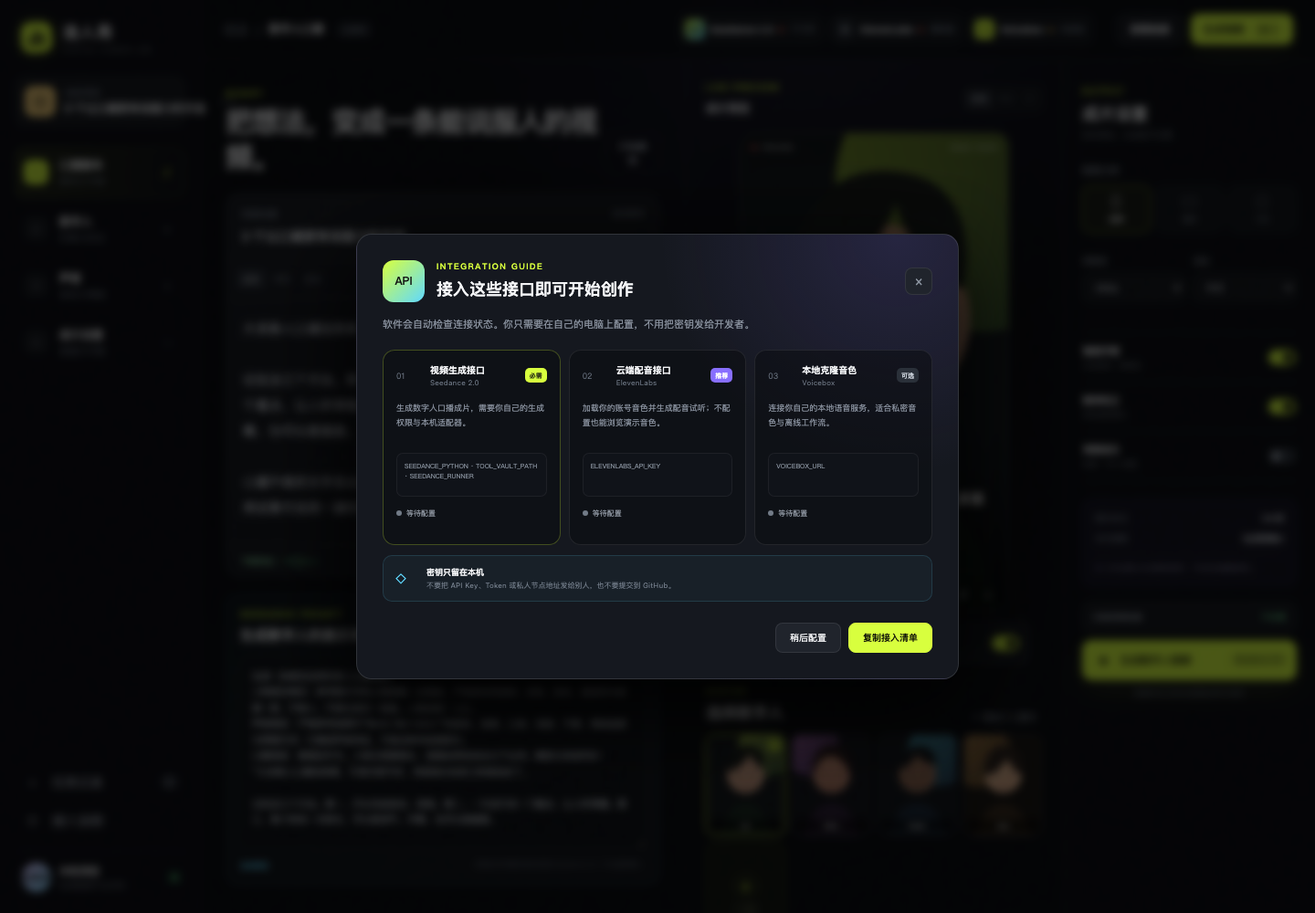
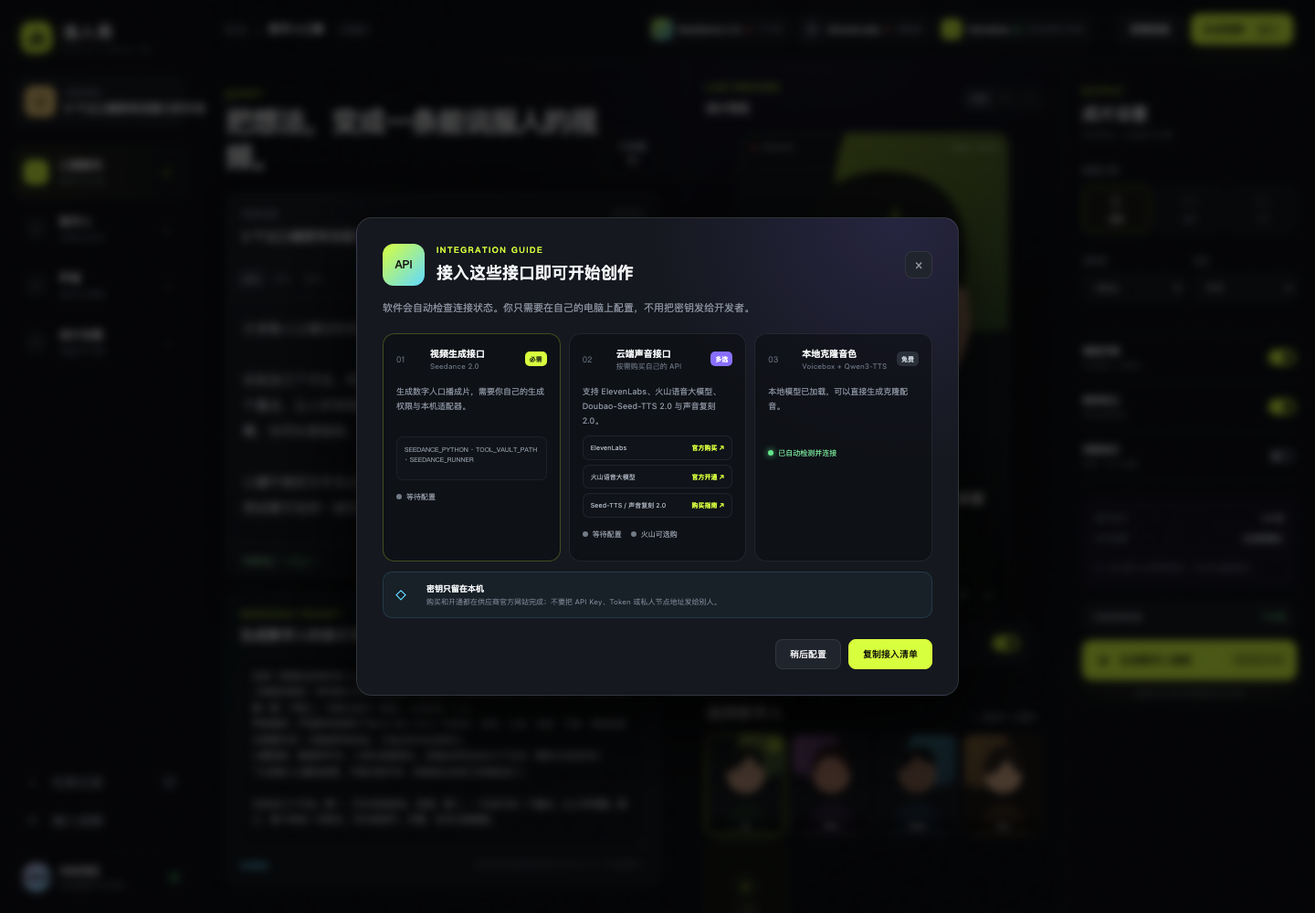
feat: add cloud voice marketplace and local model detection

diff --git a/public/styles.css b/public/styles.css
@@ -72,6 +72,7 @@ main { min-width: 0; }
 .modal-icon.seedance-confirm { color: #111; background: linear-gradient(135deg, #d8ff3e, #61d9ff); }.modal-summary { display: grid; grid-template-columns: repeat(3,1fr); gap: 6px; margin-top: 17px; }.modal-summary span { padding: 9px; border: 1px solid var(--line); border-radius: 8px; color: #717b88; font-size: 8px; }.modal-summary b { display: block; margin-top: 3px; color: #e4e6e9; font-size: 9px; white-space: nowrap; overflow: hidden; text-overflow: ellipsis; }
 .avatar-modal > section,.voice-modal > section { width: 460px; }.avatar-modal-head { display: flex; align-items: center; gap: 12px; }.avatar-modal-head h2 { margin: 0; }.add-avatar-icon { color: #111; background: var(--lime); font-size: 20px; }.avatar-name-field { display: block; margin-top: 16px; color: #8d95a0; font-size: 9px; }.avatar-name-field input { display: block; width: 100%; margin-top: 6px; padding: 10px 11px; color: #e6e8eb; background: #11141a; border: 1px solid var(--line); border-radius: 9px; outline: 0; font-size: 11px; }.avatar-name-field input:focus { border-color: rgba(216,255,62,.45); }.avatar-dropzone { position: relative; width: 100%; min-height: 165px; display: grid; place-items: center; align-content: center; gap: 5px; margin-top: 13px; overflow: hidden; border: 1px dashed rgba(255,255,255,.2); border-radius: 13px; background: #11141a; }.avatar-dropzone.dragging { border-color: var(--lime); background: rgba(216,255,62,.045); }.avatar-dropzone .drop-icon { display: grid; place-items: center; width: 35px; height: 35px; margin-bottom: 5px; border-radius: 10px; color: var(--lime); background: rgba(216,255,62,.09); font-size: 17px; }.avatar-dropzone b { font-size: 11px; }.avatar-dropzone small { color: #6d7682; font-size: 8px; }.avatar-dropzone img { position: absolute; inset: 0; width: 100%; height: 100%; object-fit: cover; }.avatar-dropzone.has-image::after { content: "点击更换图片"; position: absolute; inset: auto 8px 8px; padding: 5px; color: #fff; background: rgba(0,0,0,.58); border-radius: 6px; font-size: 8px; backdrop-filter: blur(5px); }.or-line { display: flex; align-items: center; gap: 9px; margin: 13px 0 -2px; color: #59616d; font-size: 8px; }.or-line::before,.or-line::after { content: ""; flex: 1; height: 1px; background: var(--line); }.avatar-privacy { display: grid; grid-template-columns: 24px 1fr; gap: 8px; align-items: center; margin-top: 13px; padding: 9px 10px; border: 1px solid rgba(96,217,255,.13); border-radius: 9px; background: rgba(96,217,255,.035); }.avatar-privacy > i { color: var(--cyan); font-style: normal; }.avatar-privacy b,.avatar-privacy small { display: block; }.avatar-privacy b { font-size: 9px; }.avatar-privacy small { margin-top: 1px; color: #6c7582; font-size: 8px; }
 .integration-modal > section { width: 660px; max-height: 90vh; overflow: auto; padding: 28px; background: radial-gradient(circle at 90% 0%, rgba(136,111,255,.15), transparent 34%), #15181f; }.integration-head { display: grid; grid-template-columns: 46px 1fr 30px; align-items: center; gap: 13px; }.integration-head h2 { margin: 2px 0 0; }.integration-icon { width: 46px; height: 46px; color: #111; background: linear-gradient(135deg, var(--lime), var(--cyan)); }.integration-close { width: 30px; height: 30px; border: 1px solid var(--line); border-radius: 8px; background: #20242c; color: #8c95a1; }.integration-intro { margin-top: 14px !important; }.integration-grid { display: grid; grid-template-columns: repeat(3,1fr); gap: 9px; margin-top: 18px; }.integration-card { min-height: 214px; padding: 14px; border: 1px solid var(--line); border-radius: 13px; background: rgba(9,11,15,.55); }.integration-card.required { border-color: rgba(216,255,62,.26); }.integration-card header { display: grid; grid-template-columns: 29px 1fr auto; gap: 8px; align-items: center; }.integration-number { color: #666f7c; font: 9px "DM Mono"; }.integration-card header b,.integration-card header small { display: block; }.integration-card header b { font-size: 10px; }.integration-card header small { color: #69727f; font-size: 8px; }.integration-card header em { padding: 3px 5px; border-radius: 5px; color: #111; background: var(--lime); font-size: 7px; font-style: normal; font-weight: 800; }.integration-card.recommended header em { color: #fff; background: var(--purple); }.integration-card.optional header em { color: #c7ced7; background: #2a3039; }.integration-card p { min-height: 57px; margin-top: 14px; font-size: 9px; }.integration-card code { display: block; min-height: 48px; padding: 8px; overflow-wrap: anywhere; border: 1px solid rgba(255,255,255,.06); border-radius: 7px; color: #87909c; background: #101319; font: 7px/1.65 "DM Mono"; }.integration-status { display: inline-flex; align-items: center; gap: 5px; margin-top: 12px; color: #929aa5; font-size: 8px; }.integration-status::before { content: ""; width: 6px; height: 6px; border-radius: 50%; background: #727b87; }.integration-status.connected { color: #74dc94; }.integration-status.connected::before { background: #64e58d; box-shadow: 0 0 7px #64e58d; }.integration-status.error { color: #ff8a7a; }.integration-status.error::before { background: var(--danger); }.integration-privacy { display: grid; grid-template-columns: 26px 1fr; gap: 9px; align-items: center; margin-top: 11px; padding: 11px 12px; border: 1px solid rgba(96,217,255,.15); border-radius: 10px; background: rgba(96,217,255,.04); }.integration-privacy > i { color: var(--cyan); font-style: normal; }.integration-privacy b,.integration-privacy small { display: block; }.integration-privacy b { font-size: 9px; }.integration-privacy small { margin-top: 2px; color: #747e8b; font-size: 8px; }
+.provider-buy-list { display: grid; gap: 5px; }.provider-buy-list a,.model-download { display: flex; align-items: center; justify-content: space-between; padding: 7px 8px; border: 1px solid rgba(255,255,255,.07); border-radius: 7px; color: #aeb6c2; background: #101319; font-size: 7px; text-decoration: none; }.provider-buy-list a:hover,.model-download:hover { border-color: rgba(216,255,62,.35); color: #fff; }.provider-buy-list a b { color: var(--lime); font-size: 7px; }.integration-status-row { display: flex; gap: 10px; }.model-download { margin-top: 5px; color: #111; background: var(--lime); border-color: var(--lime); font-weight: 800; }.cloud-provider-card p { min-height: auto; margin-bottom: 8px; }.cloud-provider-card { min-height: 250px; }
 .toast-wrap { position: fixed; right: 18px; bottom: 18px; z-index: 80; display: grid; gap: 8px; }.toast { width: 300px; padding: 12px 14px; border: 1px solid var(--line); border-radius: 11px; background: rgba(24,28,35,.96); box-shadow: 0 18px 45px rgba(0,0,0,.28); animation: toastIn .25s ease; }.toast b,.toast span { display: block; }.toast b { font-size: 10px; }.toast span { color: #858e9b; font-size: 9px; margin-top: 2px; }.toast.error { border-color: rgba(255,114,94,.3); }.toast.success { border-color: rgba(99,224,134,.25); }
 
 @keyframes shimmer { to { background-position: -200% 0; } }

diff --git a/docs/site.css b/docs/site.css
@@ -1,0 +1,1 @@
+:root{--bg:#090b0f;--panel:#12151b;--line:rgba(255,255,255,.1);--text:#f3f5f7;--muted:#8a929e;--lime:#d8ff3e;--cyan:#60d9ff;--purple:#8b72ff}*{box-sizing:border-box}html{scroll-behavior:smooth}body{margin:0;overflow-x:hidden;color:var(--text);background:var(--bg);font:15px/1.7 -apple-system,BlinkMacSystemFont,"Segoe UI","PingFang SC",sans-serif}.glow{position:fixed;inset:0;pointer-events:none;background:radial-gradient(circle at 70% 5%,rgba(113,87,255,.19),transparent 28%),radial-gradient(circle at 10% 35%,rgba(216,255,62,.07),transparent 24%)}a{color:inherit}.nav{position:sticky;top:0;z-index:10;display:flex;align-items:center;width:100%;max-width:1180px;height:72px;margin:auto;padding:0 24px;border-bottom:1px solid var(--line);background:rgba(9,11,15,.8);backdrop-filter:blur(18px)}.logo{display:flex;align-items:center;gap:9px;text-decoration:none}.logo i{display:flex;align-items:flex-end;justify-content:center;gap:2px;width:29px;height:29px;padding-bottom:7px;border-radius:9px;background:var(--lime);transform:rotate(-3deg)}.logo i span{width:3px;border-radius:2px;background:#111}.logo i span:nth-child(1){height:8px}.logo i span:nth-child(2){height:14px}.logo i span:nth-child(3){height:10px}.logo b{font-size:16px;letter-spacing:.08em}.logo small{color:#68717d;font:8px monospace;letter-spacing:.12em}.nav nav{display:flex;gap:28px;margin-left:auto}.nav nav a,.nav-cta{font-size:12px;text-decoration:none}.nav nav a{color:#939ba7}.nav-cta{margin-left:32px;padding:8px 13px;border:1px solid var(--line);border-radius:8px}.hero,.section,.local,.privacy,footer{position:relative;max-width:1180px;margin:auto}.hero{padding:110px 24px 80px;text-align:center}.eyebrow,.section-title>span,.local-copy>span,.privacy span{color:var(--lime);font:11px monospace;letter-spacing:.16em}.hero h1{margin:19px 0 22px;font-size:68px;line-height:1.08;letter-spacing:-.05em}.hero h1 em{color:transparent;background:linear-gradient(90deg,var(--lime),var(--cyan));background-clip:text;font-style:normal}.hero>p{max-width:670px;margin:auto;color:var(--muted);font-size:17px}.hero-actions{display:flex;justify-content:center;gap:10px;margin-top:30px}.hero-actions a{padding:12px 20px;border-radius:10px;font-size:13px;font-weight:700;text-decoration:none}.primary{color:#101208;background:var(--lime)}.secondary{border:1px solid var(--line);background:#15181f}.hero-shot{margin-top:62px;padding:10px;border:1px solid var(--line);border-radius:20px;background:#11141a;box-shadow:0 50px 120px rgba(0,0,0,.55)}.hero-shot img{display:block;width:100%;border-radius:12px}.section{padding:90px 24px}.section-title{max-width:670px}.section-title h2,.local h2,.privacy h2{margin:10px 0 13px;font-size:42px;line-height:1.14;letter-spacing:-.035em}.section-title p,.local-copy>p,.privacy>p{color:var(--muted)}.cards{display:grid;grid-template-columns:repeat(3,1fr);gap:14px;margin-top:38px}.cards article{min-height:280px;padding:25px;border:1px solid var(--line);border-radius:16px;background:rgba(18,21,27,.86)}.cards article.featured{border-color:rgba(216,255,62,.38);background:linear-gradient(145deg,rgba(216,255,62,.07),rgba(18,21,27,.9))}.card-top{display:flex;justify-content:space-between;align-items:center}.card-top>b{display:grid;place-items:center;width:40px;height:40px;border-radius:11px;color:#111;background:linear-gradient(135deg,var(--lime),var(--cyan))}.card-top span{padding:3px 7px;border-radius:6px;color:#8e96a2;background:#242932;font-size:9px}.cards h3{margin:28px 0 7px;font-size:20px}.cards p{min-height:75px;color:var(--muted);font-size:13px}.cards a{display:inline-block;margin-top:16px;color:var(--lime);font-size:12px;font-weight:700;text-decoration:none}.local{display:grid;grid-template-columns:1.1fr .9fr;gap:75px;align-items:center;padding:100px 24px}.local-copy ul{display:grid;gap:8px;padding:0;list-style:none;color:#b9c0c9}.local-copy li:before{content:"✓";margin-right:10px;color:var(--lime)}.local .hero-actions{justify-content:flex-start}.detector{padding:25px;border:1px solid rgba(96,217,255,.22);border-radius:18px;background:linear-gradient(145deg,rgba(96,217,255,.07),#11141a)}.detector-head{display:flex;align-items:center;gap:8px;padding-bottom:17px;border-bottom:1px solid var(--line);font:10px monospace}.detector-head>i{width:7px;height:7px;border-radius:50%;background:#65e58e;box-shadow:0 0 8px #65e58e}.detector-head b{margin-left:auto;color:#68dc90}.check{display:flex;gap:12px;align-items:center;padding:17px 0;border-bottom:1px solid var(--line)}.check>i{display:grid;place-items:center;width:28px;height:28px;border-radius:8px;color:#101208;background:var(--lime);font-style:normal}.check b,.check small{display:block}.check small{color:#6f7884;font-size:10px}.ready{margin-top:18px;padding:12px;border-radius:9px;color:#70df92;background:rgba(86,214,123,.08);font-size:11px;text-align:center}.privacy{display:grid;grid-template-columns:1fr 1fr;gap:80px;align-items:center;margin-top:60px;margin-bottom:100px;padding:55px;border:1px solid rgba(139,114,255,.22);border-radius:20px;background:linear-gradient(120deg,rgba(139,114,255,.09),rgba(18,21,27,.7))}.privacy h2{font-size:35px}.privacy>p{font-size:15px}footer{display:flex;align-items:center;gap:30px;padding:28px 24px;border-top:1px solid var(--line);color:#747d89;font-size:11px}footer p{margin-left:auto}footer a{text-decoration:none}@media(max-width:760px){.nav nav,.logo small{display:none}.logo,.nav-cta{flex:none}.nav-cta{margin-left:auto;white-space:nowrap}.hero{padding:75px 20px 60px}.eyebrow{overflow-wrap:anywhere}.hero h1{font-size:38px;word-break:break-all}.hero>p{font-size:14px}.hero-actions{flex-direction:column}.cards,.local,.privacy{grid-template-columns:minmax(0,1fr)}.cards article,.section,.local,.privacy{min-width:0}.section,.local{padding:65px 20px}.local{gap:35px}.privacy{gap:15px;margin:30px 16px 70px;padding:30px}.section-title h2,.local h2{font-size:34px}footer p{display:none}}

diff --git a/docs/index.html b/docs/index.html
@@ -1,0 +1,50 @@
+<!doctype html>
+<html lang="zh-CN">
+  <head>
+    <meta charset="UTF-8" />
+    <meta name="viewport" content="width=device-width, initial-scale=1" />
+    <meta name="description" content="造人局数字人口播工作台：脚本、数字人、云端声音、本地克隆与 Seedance 2.0 成片工作流。" />
+    <title>造人局 · 数字人口播工作台</title>
+    <link rel="stylesheet" href="site.css" />
+    <link rel="stylesheet" href="mobile.css" />
+  </head>
+  <body>
+    <div class="glow"></div>
+    <header class="nav">
+      <a class="logo" href="#top"><i><span></span><span></span><span></span></i><b>造人局</b><small>DIGITAL HUMAN LAB</small></a>
+      <nav><a href="#cloud">云端声音</a><a href="#local">本地克隆</a><a href="#privacy">隐私</a></nav>
+      <a class="nav-cta" href="https://github.com/francoeur003/digital-human-studio/releases/latest" target="_blank" rel="noreferrer">下载软件 ↗</a>
+    </header>
+
+    <main id="top">
+      <section class="hero">
+        <div class="eyebrow">PRIVACY-FIRST DIGITAL HUMAN STUDIO</div>
+        <h1>把想法，变成一条<br /><em>能说服人的视频。</em></h1>
+        <p>从口播脚本、人物与声音，到 Seedance 2.0 成片。API 由用户在供应商官网自行购买，密钥只保存在自己的电脑。</p>
+        <div class="hero-actions">
+          <a class="primary" href="https://github.com/francoeur003/digital-human-studio/releases/latest/download/Digital-Human-Studio-0.4.0-macOS-arm64.zip">下载 macOS 版</a>
+          <a class="secondary" href="https://github.com/francoeur003/digital-human-studio" target="_blank" rel="noreferrer">查看开源项目 ↗</a>
+        </div>
+        <div class="hero-shot"><img src="screenshots/hero.png" alt="数字人口播工作台界面" /></div>
+      </section>
+
+      <section class="section" id="cloud">
+        <div class="section-title"><span>01 · CLOUD VOICE</span><h2>云端声音，去官方购买</h2><p>工作台不代售额度，也不会接触你的密钥。选择适合自己的供应商，开通后只在本机配置。</p></div>
+        <div class="cards cloud-cards">
+          <article><div class="card-top"><b>11</b><span>国际多语种</span></div><h3>ElevenLabs</h3><p>适合多语种口播、Voice Library 和云端配音试听。</p><a href="https://elevenlabs.io/pricing" target="_blank" rel="noreferrer">官方价格与购买 ↗</a></article>
+          <article class="featured"><div class="card-top"><b>火</b><span>中文优先</span></div><h3>火山语音大模型</h3><p>支持豆包语音合成大模型，以及更自然、更有表现力的中文配音。</p><a href="https://www.volcengine.com/products/Audio-editing-and-sound-processing" target="_blank" rel="noreferrer">火山引擎官方开通 ↗</a></article>
+          <article><div class="card-top"><b>S2</b><span>2.0 接口</span></div><h3>Seed‑TTS / 声音复刻 2.0</h3><p>支持 Doubao‑Seed‑TTS 2.0 与 Doubao‑Seed‑ICL 2.0 音色能力。</p><a href="https://www.volcengine.com/docs/6561/1167802?lang=zh" target="_blank" rel="noreferrer">官方开通与购买指南 ↗</a></article>
+        </div>
+      </section>
+
+      <section class="local" id="local">
+        <div class="local-copy"><span>02 · LOCAL VOICE</span><h2>本地克隆，自动检测。</h2><p>推荐 Voicebox + Qwen3‑TTS 1.7B。软件会检测 Voicebox 是否安装、模型是否下载、服务是否运行；已就绪就直接连接，未检测到才显示下载入口。</p><ul><li>声音和模型留在本机</li><li>无需订阅，无云端额度</li><li>支持中文、英文等多语种克隆</li></ul><div class="hero-actions"><a class="primary" href="https://github.com/jamiepine/voicebox/releases/download/v0.5.0/Voicebox_0.5.0_aarch64.dmg">Apple 芯片直接下载</a><a class="secondary" href="https://voicebox.sh/download" target="_blank" rel="noreferrer">其他系统官方下载 ↗</a></div></div>
+        <div class="detector"><div class="detector-head"><i></i><span>LOCAL MODEL DETECTOR</span><b>自动运行</b></div><div class="check"><i>✓</i><span><b>Voicebox 应用</b><small>检查系统安装目录</small></span></div><div class="check"><i>✓</i><span><b>Qwen3‑TTS 模型</b><small>检查本地 Hugging Face 缓存</small></span></div><div class="check"><i>✓</i><span><b>本机语音服务</b><small>自动发现运行端口，不公开地址</small></span></div><div class="ready">检测成功后显示：本地模型已就绪</div></div>
+      </section>
+
+      <section class="privacy" id="privacy"><div><span>03 · SECURITY</span><h2>你的密钥，不属于这个项目。</h2></div><p>GitHub、安装包、网页和日志均不保存 API Key、Token、私人节点地址或个人音色。公开接口只返回配置状态布尔值。</p></section>
+    </main>
+
+    <footer><div class="logo"><b>造人局</b><small>DIGITAL HUMAN LAB</small></div><p>开源桌面工作台 · MIT License</p><a href="https://github.com/francoeur003/digital-human-studio" target="_blank" rel="noreferrer">GitHub ↗</a></footer>
+  </body>
+</html>

diff --git a/public/app.js b/public/app.js
@@ -105,7 +105,7 @@ async function loadHealth() {
     const voicebox = data.providers.voicebox;
     setProvider($("#seedanceStatus"), seedance.connected ? "connected" : "error", seedance.connected ? "API 已连接" : seedance.state === "unauthorized" ? "需重新授权" : "不可用");
     setProvider($("#elevenStatus"), eleven.connected ? "connected" : "error", eleven.connected ? "API 已连接" : "需配置");
-    setProvider($("#voiceboxStatus"), voicebox?.connected ? "connected" : "warning", voicebox?.connected ? "本机已连接" : voicebox?.configured ? "未连接" : "未配置");
+    setProvider($("#voiceboxStatus"), voicebox?.connected ? "connected" : "warning", voicebox?.connected ? (voicebox.autoDetected ? "自动检测已连接" : "本机已连接") : voicebox?.modelDownloaded ? "模型已检测" : voicebox?.appInstalled ? "应用已安装" : "未安装");
     $("#cliHint").textContent = seedance.connected
       ? `Seedance 2.0 API 已就绪${seedance.walletBalance ? ` · 剩余 ${seedance.walletBalance} 点` : ""}`
       : "配置你自己的生成通道后即可使用";
@@ -137,9 +137,33 @@ async function loadIntegrations() {
     state.integrations = data.integrations || [];
     renderIntegrationStatus("video-generation", "#integrationVideoStatus");
     renderIntegrationStatus("cloud-voice", "#integrationVoiceStatus");
-    renderIntegrationStatus("local-cloned-voice", "#integrationLocalStatus");
+    const volcengine = state.integrations.find((entry) => entry.id === "volcengine-seed-tts-2");
+    const volcStatus = $("#integrationVolcStatus");
+    volcStatus.className = `integration-status ${volcengine?.configured ? "connected" : "missing"}`;
+    volcStatus.textContent = volcengine?.configured ? "火山已配置" : "火山可选购";
+    const local = state.integrations.find((entry) => entry.id === "local-cloned-voice");
+    const localStatus = $("#integrationLocalStatus");
+    const localHint = $("#localModelHint");
+    const download = $("#localModelDownload");
+    if (local?.connected) {
+      localStatus.className = "integration-status connected";
+      localStatus.textContent = local.detection?.autoDetected ? "已自动检测并连接" : "已连接";
+      localHint.textContent = local.detection?.modelLoaded ? "本地模型已加载，可以直接生成克隆配音。" : "Voicebox 已运行，首次生成时会加载本地模型。";
+      download.classList.add("hidden");
+    } else if (local?.detection?.modelDownloaded) {
+      localStatus.className = "integration-status connected";
+      localStatus.textContent = "本地模型已检测";
+      localHint.textContent = "已找到 Qwen3‑TTS 模型，请启动 Voicebox 后再刷新。";
+      download.classList.add("hidden");
+    } else {
+      localStatus.className = "integration-status missing";
+      localStatus.textContent = local?.detection?.appInstalled ? "应用已安装，模型未下载" : "未检测到本地模型";
+      localHint.textContent = "推荐 Voicebox + Qwen3‑TTS 1.7B；安装后首次生成会自动下载模型。";
+      download.href = local?.downloadUrl || "https://voicebox.sh/download";
+      download.classList.remove("hidden");
+    }
   } catch (error) {
-    ["#integrationVideoStatus", "#integrationVoiceStatus", "#integrationLocalStatus"].forEach((selector) => {
+    ["#integrationVideoStatus", "#integrationVoiceStatus", "#integrationVolcStatus", "#integrationLocalStatus"].forEach((selector) => {
       $(selector).className = "integration-status error";
       $(selector).textContent = "检查失败";
     });
@@ -488,8 +512,11 @@ function closeIntegrationModal() {
 async function copyIntegrationChecklist() {
   const checklist = `使用“造人局·数字人口播工作台”需要准备：
 1. 视频生成：Seedance 2.0 生成权限与本机适配器（必需）
-2. 云端配音：ElevenLabs API Key（推荐）
-3. 本地克隆音色：Voicebox 服务地址（可选）
+2. 云端配音任选：ElevenLabs、火山语音大模型、Doubao-Seed-TTS 2.0 / 声音复刻 2.0
+   火山官方开通：https://www.volcengine.com/products/Audio-editing-and-sound-processing
+   声音复刻购买指南：https://www.volcengine.com/docs/6561/1167802?lang=zh
+3. 本地克隆音色：Voicebox + Qwen3-TTS 1.7B（免费、可选）
+   官方下载：https://voicebox.sh/download
 
 请只在自己的电脑上配置，不要把 API Key、Token 或私人节点地址发给别人，也不要提交到 GitHub。`;
   try {

diff --git a/public/index.html b/public/index.html
@@ -214,20 +214,24 @@
             <code>SEEDANCE_PYTHON · TOOL_VAULT_PATH · SEEDANCE_RUNNER</code>
             <span class="integration-status" id="integrationVideoStatus">正在检查</span>
           </article>
-          <article class="integration-card recommended">
-            <header><span class="integration-number">02</span><div><b>云端配音接口</b><small>ElevenLabs</small></div><em>推荐</em></header>
-            <p>加载你的账号音色并生成配音试听；不配置也能浏览演示音色。</p>
-            <code>ELEVENLABS_API_KEY</code>
-            <span class="integration-status" id="integrationVoiceStatus">正在检查</span>
+          <article class="integration-card recommended cloud-provider-card">
+            <header><span class="integration-number">02</span><div><b>云端声音接口</b><small>按需购买自己的 API</small></div><em>多选</em></header>
+            <p>支持 ElevenLabs、火山语音大模型、Doubao‑Seed‑TTS 2.0 与声音复刻 2.0。</p>
+            <div class="provider-buy-list">
+              <a href="https://elevenlabs.io/pricing" target="_blank" rel="noreferrer"><span>ElevenLabs</span><b>官方购买 ↗</b></a>
+              <a href="https://www.volcengine.com/products/Audio-editing-and-sound-processing" target="_blank" rel="noreferrer"><span>火山语音大模型</span><b>官方开通 ↗</b></a>
+              <a href="https://www.volcengine.com/docs/6561/1167802?lang=zh" target="_blank" rel="noreferrer"><span>Seed‑TTS / 声音复刻 2.0</span><b>购买指南 ↗</b></a>
+            </div>
+            <div class="integration-status-row"><span class="integration-status" id="integrationVoiceStatus">正在检查</span><span class="integration-status" id="integrationVolcStatus">正在检查</span></div>
           </article>
           <article class="integration-card optional">
-            <header><span class="integration-number">03</span><div><b>本地克隆音色</b><small>Voicebox</small></div><em>可选</em></header>
-            <p>连接你自己的本地语音服务，适合私密音色与离线工作流。</p>
-            <code>VOICEBOX_URL</code>
+            <header><span class="integration-number">03</span><div><b>本地克隆音色</b><small>Voicebox + Qwen3‑TTS</small></div><em>免费</em></header>
+            <p id="localModelHint">正在检测应用、本地模型与运行服务。</p>
+            <a class="model-download hidden" id="localModelDownload" href="https://voicebox.sh/download" target="_blank" rel="noreferrer">直接下载本地模型 ↗</a>
             <span class="integration-status" id="integrationLocalStatus">正在检查</span>
           </article>
         </div>
-        <div class="integration-privacy"><i>◇</i><span><b>密钥只留在本机</b><small>不要把 API Key、Token 或私人节点地址发给别人，也不要提交到 GitHub。</small></span></div>
+        <div class="integration-privacy"><i>◇</i><span><b>密钥只留在本机</b><small>购买和开通都在供应商官方网站完成；不要把 API Key、Token 或私人节点地址发给别人。</small></span></div>
         <div class="modal-actions"><button data-integration-modal-close>稍后配置</button><button id="copyIntegrationChecklist">复制接入清单</button></div>
       </section>
     </div>

diff --git a/docs/mobile.css b/docs/mobile.css
@@ -1,0 +1,41 @@
+@media (max-width: 760px) {
+  html,
+  body,
+  main,
+  .nav,
+  .hero,
+  .section,
+  .local,
+  .privacy,
+  footer {
+    width: 100vw;
+    max-width: 100vw;
+    min-width: 0;
+  }
+
+  .hero h1,
+  .hero > p,
+  .eyebrow {
+    width: min(350px, calc(100vw - 40px));
+    max-width: min(350px, calc(100vw - 40px));
+    margin-right: auto;
+    margin-left: auto;
+  }
+
+  .hero h1 {
+    font-size: 36px;
+  }
+
+  .hero-shot,
+  .hero-shot img,
+  .cards,
+  .cards article,
+  .detector {
+    min-width: 0;
+    max-width: 100%;
+  }
+
+  .logo {
+    min-width: 92px;
+  }
+}

diff --git a/docs/INTEGRATION-CONTRACT.md b/docs/INTEGRATION-CONTRACT.md
@@ -7,10 +7,22 @@ Digital Human Studio 不内置任何个人 API Key、Token 或私人节点地址
 | 能力 | 供应商 | 级别 | 本机配置项 | 用途 |
 | --- | --- | --- | --- | --- |
 | 视频生成 | Seedance 2.0 | 必需 | `SEEDANCE_PYTHON`、`TOOL_VAULT_PATH`、`SEEDANCE_RUNNER` | 提交数字人口播成片任务 |
-| 云端配音 | ElevenLabs | 推荐 | `ELEVENLABS_API_KEY` | 加载账号音色、生成配音试听 |
-| 本地克隆音色 | Voicebox | 可选 | `VOICEBOX_URL` | 连接用户自己的本地语音服务 |
+| 云端配音 | ElevenLabs | 可选 | `ELEVENLABS_API_KEY` | 加载账号音色、生成配音试听 |
+| 火山语音大模型 | Doubao-Seed-TTS 2.0 | 可选 | `VOLCENGINE_TTS_APP_ID`、`VOLCENGINE_TTS_ACCESS_TOKEN`、`VOLCENGINE_TTS_VOICE_TYPE` | 接入豆包语音合成 2.0 公版音色 |
+| 火山声音复刻 | Doubao-Seed-ICL 2.0 | 可选 | 同上，按控制台开通的资源填写 | 使用用户自行购买的复刻音色 |
+| 本地克隆音色 | Voicebox + Qwen3-TTS | 可选、免费 | 通常自动检测；也可手动填写 `VOICEBOX_URL` | 在本机生成克隆配音 |
 
 `SEEDANCE_MODEL` 是可选的视频模型标识。配置项只写入用户自己的 `.env` 或桌面应用数据目录，不应写进源码、截图、日志或 GitHub。
+
+## 官方开通与下载
+
+- [ElevenLabs 官方价格](https://elevenlabs.io/pricing)
+- [火山引擎豆包语音产品页](https://www.volcengine.com/products/Audio-editing-and-sound-processing)
+- [火山引擎声音复刻 2.0 开通与购买指南](https://www.volcengine.com/docs/6561/1167802?lang=zh)
+- [Voicebox 官方下载](https://voicebox.sh/download)
+- [Voicebox 安装与模型说明](https://docs.voicebox.sh/overview/installation)
+
+Voicebox 推荐使用 Qwen3-TTS 1.7B。工作台会检查 Voicebox 应用、本地 Hugging Face 模型缓存和正在运行的本机服务；如果模型已存在就提示启动或已连接，如果未发现才展示官方下载按钮。下载 Voicebox 后，首次使用对应引擎时由 Voicebox 自行下载模型。
 
 ## 工作台公开 API
 
@@ -32,3 +44,4 @@ Digital Human Studio 不内置任何个人 API Key、Token 或私人节点地址
 - 真实付费生成必须明确确认，失败不会自动付费重试。
 - 长任务使用 `taskId` 轮询；重复提交由幂等键保护。
 - `/api/integrations` 只返回配置项名称和布尔状态，绝不返回配置值或本机路径。
+- 本地检测只返回 `appInstalled/modelDownloaded/modelLoaded/autoDetected` 布尔值，不公开本机端口或目录。

diff --git a/README.md b/README.md
@@ -60,10 +60,15 @@ npm start
 | 能力 | 接口 | 要求 |
 | --- | --- | --- |
 | 数字人成片 | Seedance 2.0 生成权限与本机适配器 | 必需 |
-| 云端配音 | ElevenLabs API Key | 推荐 |
-| 本地克隆音色 | Voicebox 服务地址 | 可选 |
+| 云端配音 | ElevenLabs API Key | 可选 |
+| 火山语音 | Doubao-Seed-TTS 2.0 / 声音复刻 2.0 | 可选 |
+| 本地克隆音色 | Voicebox + Qwen3-TTS 1.7B，支持自动检测 | 可选、免费 |
 
 点击软件左下角的“接入说明”，或点击顶部任一供应商状态，即可看到实时连接状态并一键复制接入清单。程序还提供只读的 `GET /api/integrations`，仅返回配置项名称和脱敏状态。完整约定见 [接入说明与公开接口](docs/INTEGRATION-CONTRACT.md)。
+
+官方入口：[项目官网](https://francoeur003.github.io/digital-human-studio/) · [火山语音官方开通](https://www.volcengine.com/products/Audio-editing-and-sound-processing) · [声音复刻 2.0 购买指南](https://www.volcengine.com/docs/6561/1167802?lang=zh) · [Voicebox 官方下载](https://voicebox.sh/download)
+
+![Digital Human Studio 官方网站](docs/screenshots/official-site.png)
 
 ![接入说明：必需、推荐和可选接口](docs/screenshots/integration-guide.png)
 
